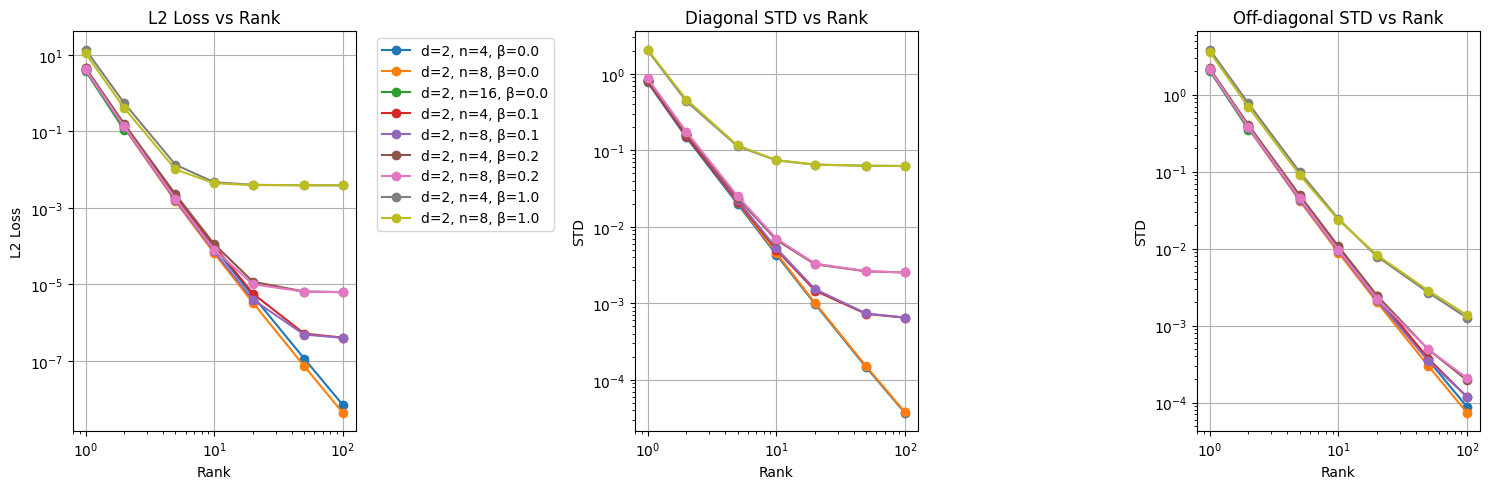
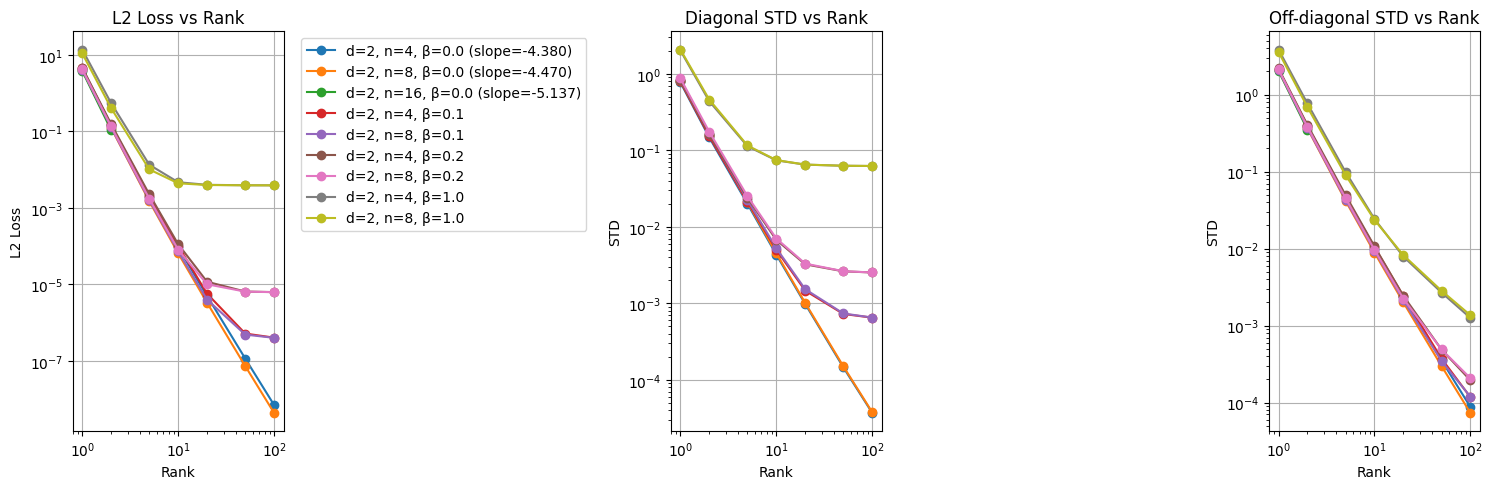
slope viz, got very good R²

diff --git a/experiments/after_big_run_statistics.py b/experiments/after_big_run_statistics.py
@@ -18,6 +18,7 @@ import matplotlib.pyplot as plt
 import seaborn as sns
 import os
 import jax.numpy as jnp
+from scipy import stats
 
 # we define base path
 BASE_PATH = os.path.dirname(os.path.dirname(os.path.abspath(__file__)))  # we get the project root directory
@@ -80,50 +81,76 @@ if not os.path.exists(output_dir):
     os.makedirs(output_dir)
 
 # %%
-# we analyze scaling with rank
-plt.figure(figsize=(15, 5))
-for beta in betas:
-    for n in n_samples_list:
-        for d in input_dims:
-            key = f"dim{d}_n{n}_beta{beta}"
-            if key in results:
-                # we get mean L2 losses across ranks
-                valid_ranks = [r for r in ranks if r in results[key]['l2_losses']]  # we only use ranks that exist
-                if valid_ranks:  # we plot only if we have valid ranks
-                    mean_losses = [np.mean(results[key]['l2_losses'][r]) for r in valid_ranks]
-                    plt.subplot(131)
-                    plt.loglog(valid_ranks, mean_losses, 'o-', label=f'd={d}, n={n}, β={beta}')
-                    
-                    # we get std of diagonal entries
-                    stds_00 = [np.mean(results[key]['ntk_stds_00'][r]) for r in valid_ranks]
-                    plt.subplot(132)
-                    plt.loglog(valid_ranks, stds_00, 'o-', label=f'd={d}, n={n}, β={beta}')
-                    
-                    # we get std of off-diagonal entries
-                    stds_01 = [np.mean(results[key]['ntk_stds_01'][r]) for r in valid_ranks]
-                    plt.subplot(133)
-                    plt.loglog(valid_ranks, stds_01, 'o-', label=f'd={d}, n={n}, β={beta}')
+# we analyze scaling with rank for beta=0.0
+plt.figure(figsize=(10, 12))
 
-plt.subplot(131)
-plt.title('L2 Loss vs Rank')
+# we store slopes and data for beta=0.0
+slopes_data = []  # we store (dim, n_samples, metric_type, slope, r_value)
+
+for n in n_samples_list:
+    for d in input_dims:
+        key = f"dim{d}_n{n}_beta0.0"
+        if key in results:
+            valid_ranks = [r for r in ranks if r in results[key]['l2_losses']]
+            if valid_ranks:
+                log_ranks = np.log(valid_ranks)
+                
+                # L2 loss
+                plt.subplot(311)
+                mean_losses = [np.mean(results[key]['l2_losses'][r]) for r in valid_ranks]
+                log_losses = np.log(mean_losses)
+                slope, intercept, r_value, _, _ = stats.linregress(log_ranks, log_losses)
+                plt.loglog(valid_ranks, mean_losses, 'o-', label=f'd={d}, n={n} (slope={slope:.3f}, R²={r_value**2:.3f})')
+                slopes_data.append((d, n, 'L2 Loss', slope, r_value))
+                
+                # Diagonal STD
+                plt.subplot(312)
+                stds_00 = [np.mean(results[key]['ntk_stds_00'][r]) for r in valid_ranks]
+                log_diag = np.log(stds_00)
+                slope, intercept, r_value, _, _ = stats.linregress(log_ranks, log_diag)
+                plt.loglog(valid_ranks, stds_00, 'o-', label=f'd={d}, n={n} (slope={slope:.3f}, R²={r_value**2:.3f})')
+                slopes_data.append((d, n, 'Diagonal STD', slope, r_value))
+                
+                # Off-diagonal STD
+                plt.subplot(313)
+                stds_01 = [np.mean(results[key]['ntk_stds_01'][r]) for r in valid_ranks]
+                log_offdiag = np.log(stds_01)
+                slope, intercept, r_value, _, _ = stats.linregress(log_ranks, log_offdiag)
+                plt.loglog(valid_ranks, stds_01, 'o-', label=f'd={d}, n={n} (slope={slope:.3f}, R²={r_value**2:.3f})')
+                slopes_data.append((d, n, 'Off-diagonal STD', slope, r_value))
+
+# we customize plots
+plt.subplot(311)
+plt.title('L2 Loss vs Rank (β=0.0)')
 plt.xlabel('Rank')
 plt.ylabel('L2 Loss')
 plt.grid(True)
-plt.legend(bbox_to_anchor=(1.05, 1), loc='upper left')
+plt.legend()
 
-plt.subplot(132)
-plt.title('Diagonal STD vs Rank')
+plt.subplot(312)
+plt.title('Diagonal STD vs Rank (β=0.0)')
 plt.xlabel('Rank')
 plt.ylabel('STD')
 plt.grid(True)
+plt.legend()
 
-plt.subplot(133)
-plt.title('Off-diagonal STD vs Rank')
+plt.subplot(313)
+plt.title('Off-diagonal STD vs Rank (β=0.0)')
 plt.xlabel('Rank')
 plt.ylabel('STD')
 plt.grid(True)
+plt.legend()
 
 plt.tight_layout()
-plt.savefig(os.path.join(output_dir, 'rank_scaling.png'), bbox_inches='tight')
+plt.savefig(os.path.join(output_dir, 'rank_scaling_beta0.png'), bbox_inches='tight', dpi=300)
 plt.close()
+
+# we print slopes in a formatted table
+print("\nSlopes and R² values for β=0.0:")
+print("-" * 80)
+print(f"{'Dimension':^10} | {'n_samples':^10} | {'Metric':^15} | {'Slope':^10} | {'R²':^10}")
+print("-" * 80)
+for d, n, metric, slope, r_value in slopes_data:
+    print(f"{d:^10} | {n:^10} | {metric:^15} | {slope:^10.3f} | {r_value**2:^10.3f}")
+print("-" * 80)
 
